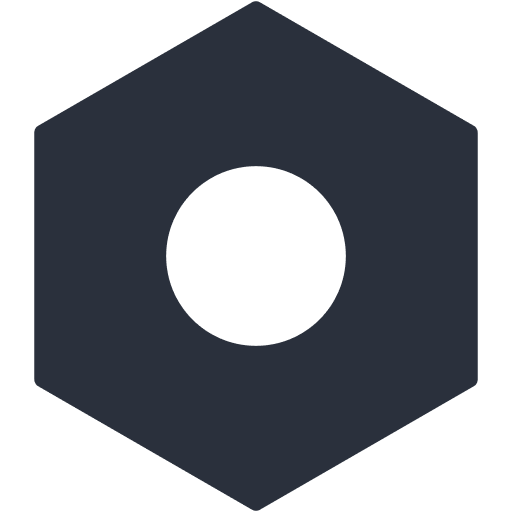
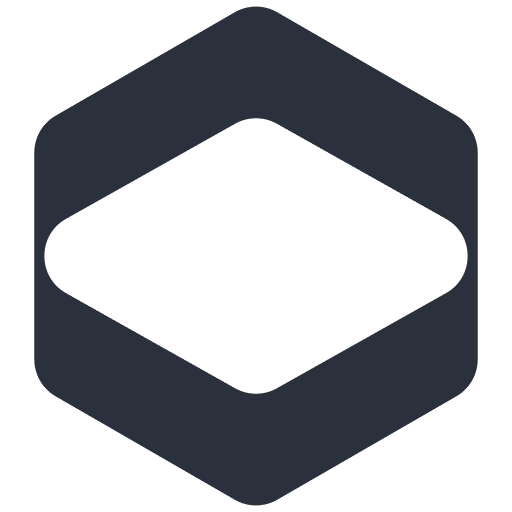
update pwa assets, settings, hydration

diff --git a/layouts/default.vue b/layouts/default.vue
@@ -33,24 +33,24 @@ const isActiveSound = ref(false)
     <nav
       sticky top-0 z-1 select-none
       bg-base-300 text-base-content
-      w-full flex items-center justify-start self-center h14 px3 gap3
+      w-full flex items-center justify-start self-center h-14 px-3 gap-3
     >
-      <button
-        btn flex-center h-8 w-auto flex-nowrap whitespace-nowrap px-2
-        hover:bg-primary hover:text-primary-content text-base-content
-        @click="addSession()"
-      >
-        <template v-if="breakpoints.sm">
-          New Chat
-        </template>
-        <template v-else>
-          <span i-ph-plus-bold />
-        </template>
-      </button>
       <ClientOnly>
+        <button
+          btn flex-center h-8 w-auto flex-nowrap whitespace-nowrap px-2
+          hover:bg-primary hover:text-primary-content text-base-content
+          @click="addSession()"
+        >
+          <template v-if="breakpoints.sm">
+            New Chat
+          </template>
+          <template v-else>
+            <span i-ph-plus-bold />
+          </template>
+        </button>
         <div
           ref="sessionScrollRef"
-          flex-auto flex items-center gap-1 overflow-x-auto scroll-smooth py-2
+          flex-auto flex items-center gap-1 overflow-x-auto scroll-smooth py-2 mx--2
           @mousewheel="scrollX"
         >
           <div h-10 min-w-6 sticky left-0 bg-gradient-to-r from-base-300 to-transparent z-1 />

diff --git a/nuxt.config.ts b/nuxt.config.ts
@@ -30,24 +30,11 @@ export default defineNuxtConfig({
     manifest: {
       name: 'Phonetica',
       short_name: 'Phonetica',
-      theme_color: '#ffffff',
+      theme_color: '#2A303C',
       icons: [
-        {
-          src: 'pwa-192x192.png',
-          sizes: '192x192',
-          type: 'image/png',
-        },
-        {
-          src: 'pwa-512x512.png',
-          sizes: '512x512',
-          type: 'image/png',
-        },
-        {
-          src: 'pwa-512x512.png',
-          sizes: '512x512',
-          type: 'image/png',
-          purpose: 'any maskable',
-        },
+        { src: 'pwa-192x192.png', sizes: '192x192', type: 'image/png' },
+        { src: 'pwa-512x512.png', sizes: '512x512', type: 'image/png' },
+        { src: 'pwa-512x512.png', sizes: '512x512', type: 'image/png', purpose: 'any maskable' },
       ],
     },
     workbox: {

diff --git a/components/ChatInput.vue b/components/ChatInput.vue
@@ -29,10 +29,10 @@ function onSubmit() {
       <button
         btn h-8 w-8 flex-center
         :class="{
-          'hover:bg-error-content text-error outline-error': !isRecording,
+          'bg-error-content text-error outline-error': !isRecording,
           'bg-error text-error-content outline-error': isRecording,
         }"
-        :title="!isRecording ? 'Record' : 'Stop Recording'"
+        :title="!isRecording ? 'Start Recording' : 'Stop Recording'"
         @click="toggleRecorder"
       >
         <span v-if="!isRecording" i-ph-microphone-bold />

diff --git a/app.vue b/app.vue
@@ -3,7 +3,7 @@ useHead({
   title: 'Phonetica',
   link: [
     { rel: 'icon', type: 'image/svg+xml', href: '/logo.svg' },
-    { rel: 'stylesheet', href: 'https://fonts.googleapis.com/css?family=Prompt' },
+    { rel: 'stylesheet', href: 'https://fonts.googleapis.com/css?family=Ubuntu' },
   ],
 })
 </script>
@@ -22,6 +22,6 @@ a {
   cursor: pointer;
 }
 body {
-  font-family: 'Prompt', sans-serif;
+  font-family: 'Ubuntu', sans-serif;
 }
 </style>
